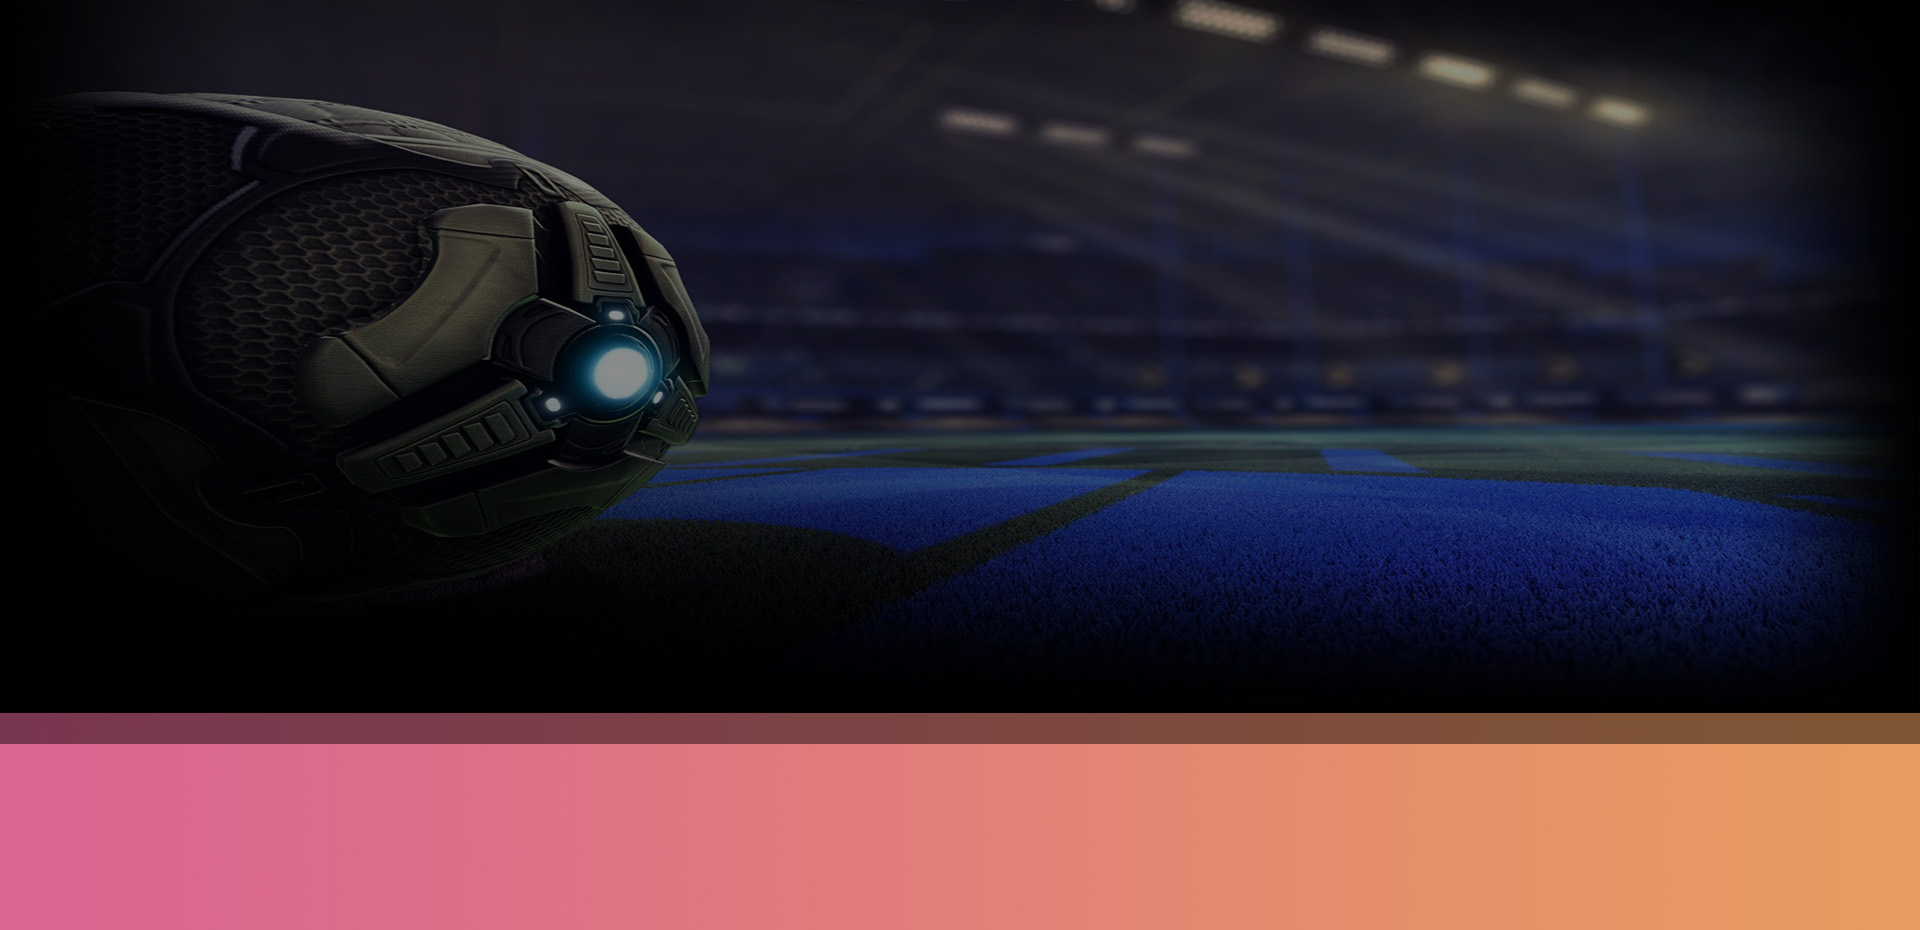
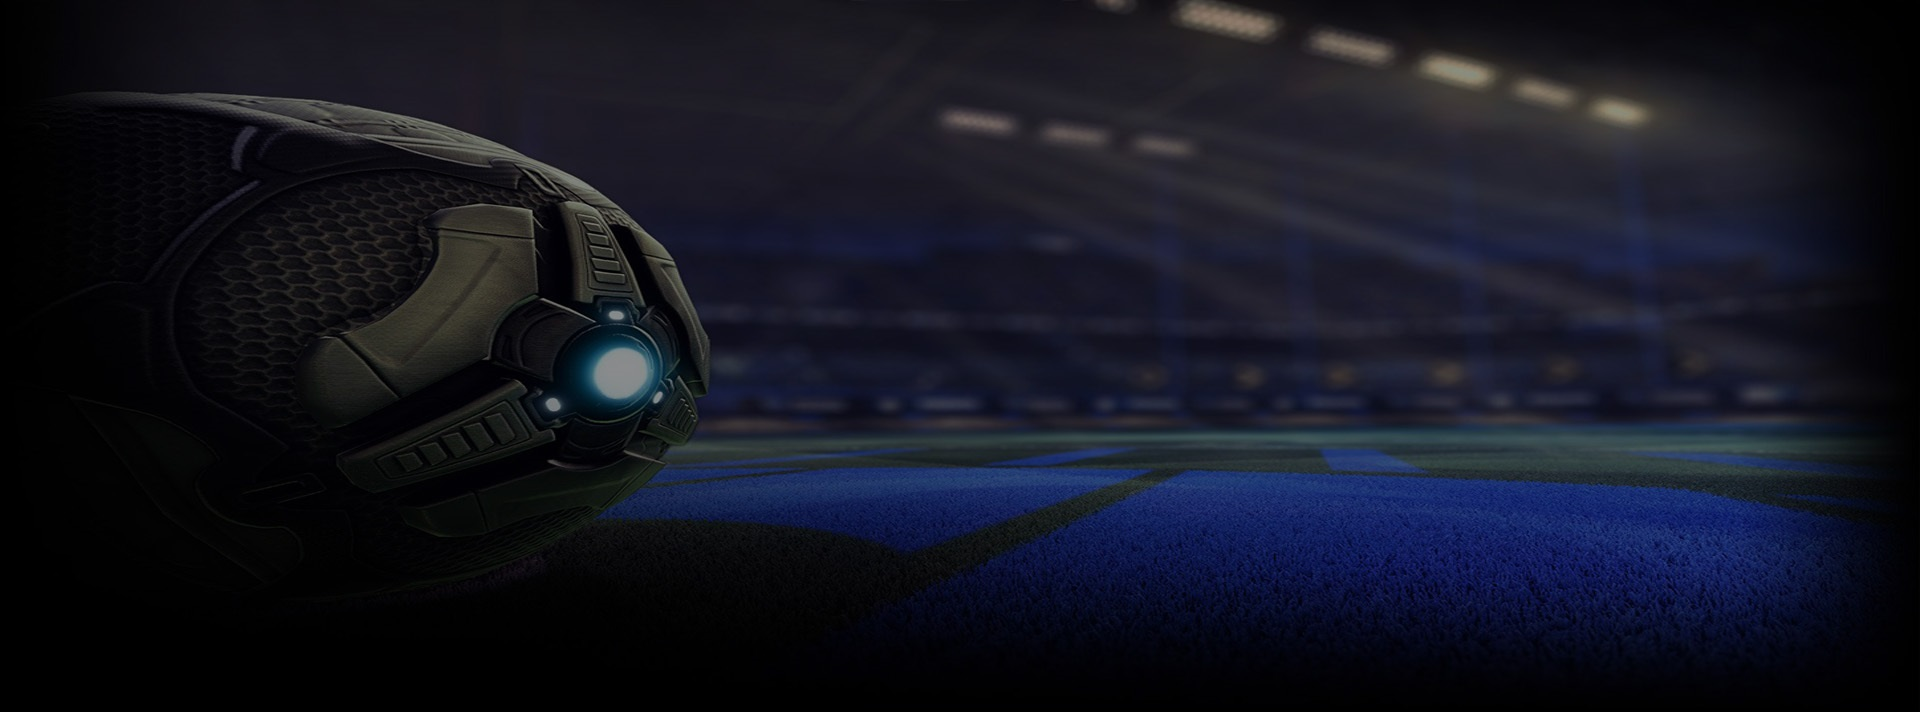
Reduce hero section height for better proportions
- Decrease mobile hero height from 60vh to 50vh
- Decrease desktop hero height from 70vh to 55vh
- Maintain visual balance while making content more compact

diff --git a/css/style.css b/css/style.css
@@ -243,7 +243,7 @@ body.menu-open {
 /* ========== HERO SECTION ========== */
 .hero {
 	background: linear-gradient(rgba(0, 0, 0, 0.5), rgba(0, 0, 0, 0.5)), url(../img/bg.jpg) center/cover no-repeat;
-	min-height: 60vh;
+	min-height: 50vh;
 	display: flex;
 	align-items: center;
 	text-align: center;
@@ -545,7 +545,7 @@ body.menu-open {
 	}
 	
 	.hero {
-		min-height: 70vh;
+		min-height: 55vh;
 		align-items: center;
 	}
 	
